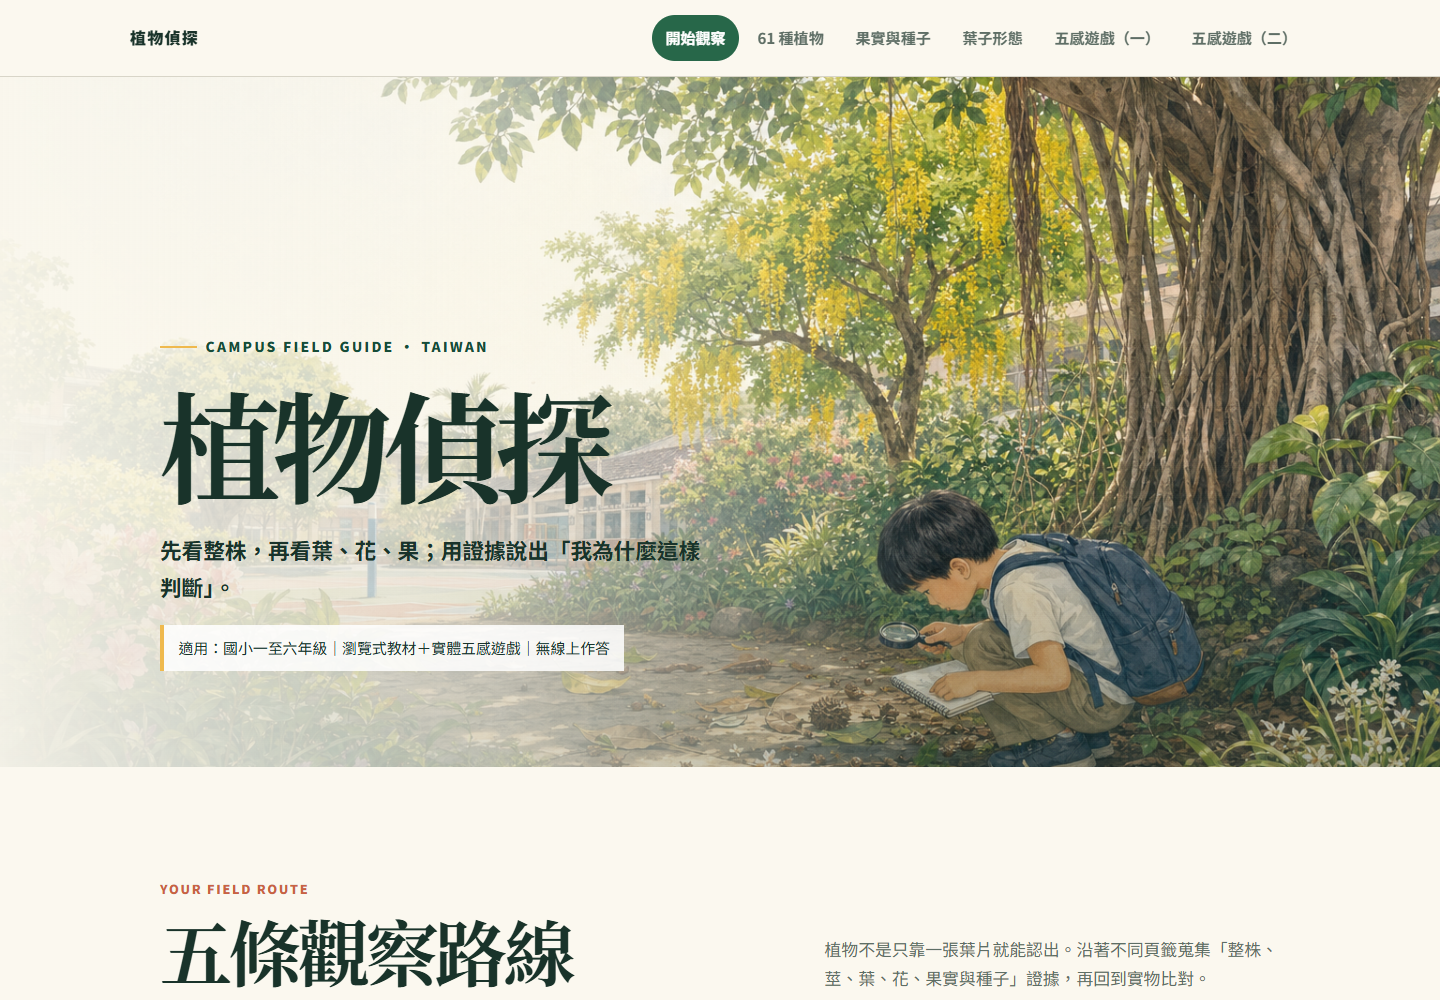
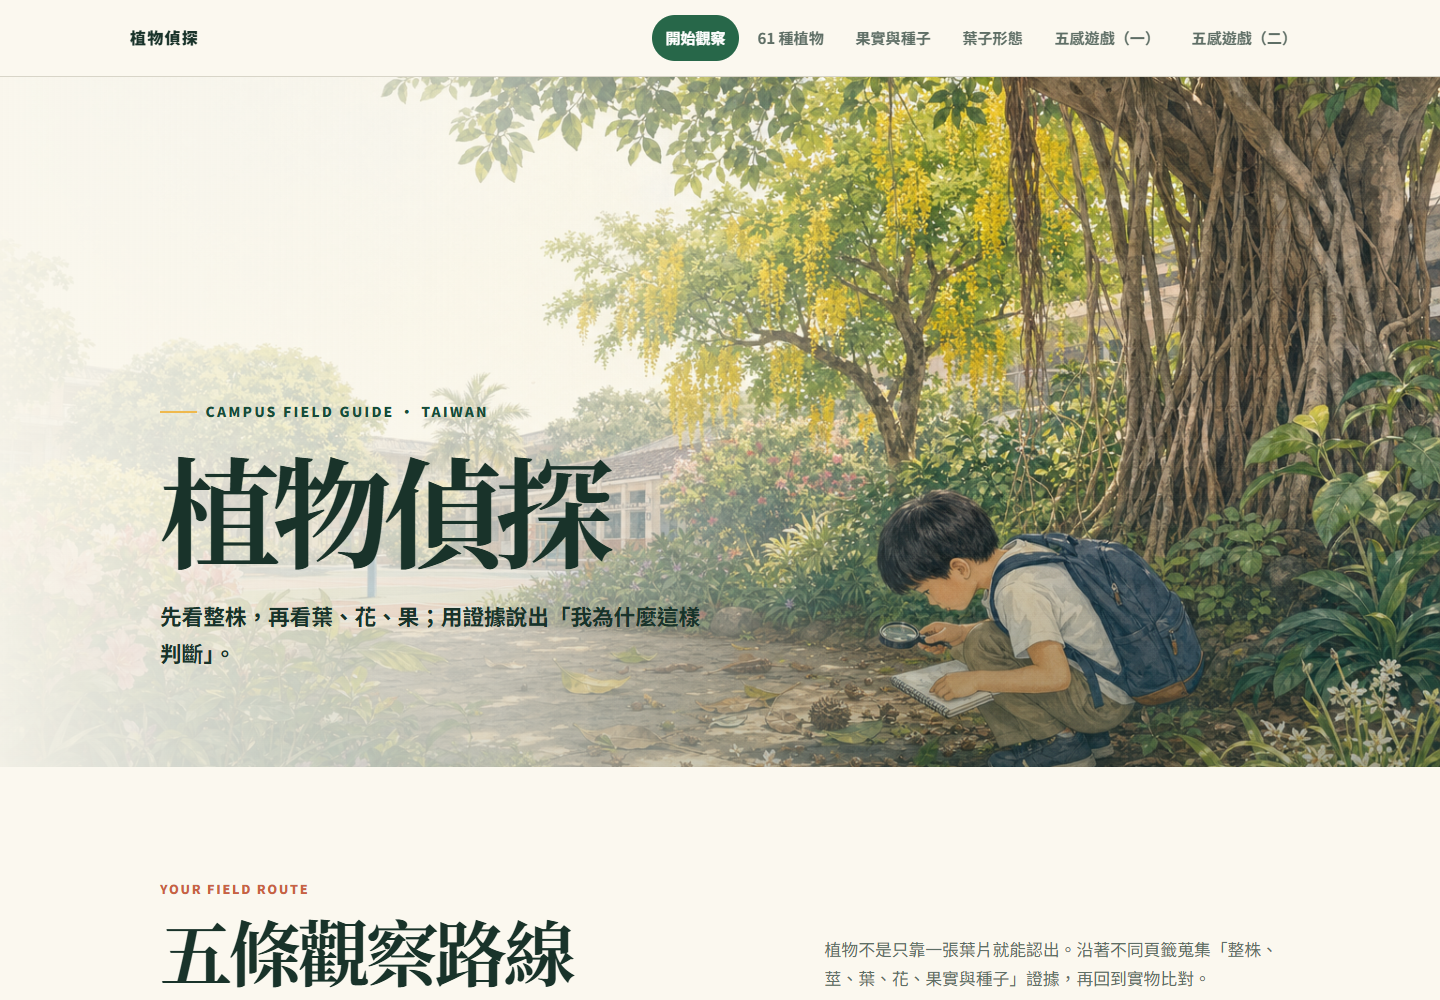
Remove homepage audience note

Changed region(s): [[0.0938, 0.341, 0.5, 0.682]]

diff --git a/index.html b/index.html
@@ -31,7 +31,6 @@
         <p class="eyebrow">Campus field guide · Taiwan</p>
         <h1 id="hero-title">植物偵探</h1>
         <p class="hero-sub">先看整株，再看葉、花、果；用證據說出「我為什麼這樣判斷」。</p>
-        <span class="hero-note">適用：國小一至六年級｜瀏覽式教材＋實體五感遊戲｜無線上作答</span>
       </div>
     </section>
 

diff --git a/styles.css b/styles.css
@@ -46,7 +46,6 @@ main { min-height: 70vh; }
 h1, h2, h3 { font-family: "Noto Serif TC", "Songti TC", "PMingLiU", serif; line-height: 1.2; }
 h1 { margin: 0; font-size: clamp(3.4rem, 9vw, 7.5rem); letter-spacing: -.07em; }
 .hero-sub { max-width: 34rem; font-size: clamp(1.05rem, 2vw, 1.35rem); font-weight: 650; margin: 1.1rem 0 0; }
-.hero-note { display: inline-block; margin-top: 1.2rem; padding: .65rem .9rem; background: rgba(255,255,255,.86); border-left: 4px solid var(--sun); font-size: .93rem; }
 .section { padding: clamp(4rem, 8vw, 7rem) 0; }
 .section + .section { border-top: 1px solid var(--line); }
 .section-tint { background: #eef2e6; }

diff --git a/CHANGELOG.md b/CHANGELOG.md
@@ -1,5 +1,9 @@
 # 更新紀錄
 
+## 1.2.3 — 2026-07-19
+
+- 移除首頁封面上的適用年級、教材型態與作答方式資訊條。
+
 ## 1.2.2 — 2026-07-19
 
 - 移除全站導覽列左側的圓形「葉」品牌圖示，保留「植物偵探」文字首頁連結。

diff --git a/docs/test-report.md b/docs/test-report.md
@@ -35,6 +35,7 @@
 - 新增 6 張果實／種子圖目視確認分類欄位、剖面、種子構造與散播動作清楚；新增 8 張遊戲圖確認不採摘、手搧聞香、密封聲音罐、教師分裝可食香草等安全動作。
 - 新增羽狀複葉四欄圖目視確認一回奇數／偶數羽狀、二回與三回的葉軸分枝層級，以及整片複葉基部的腋芽位置。
 - 全站 6 頁導覽列已移除圓形「葉」圖示；桌機與手機截圖確認只保留「植物偵探」文字首頁連結，導覽間距正常。
+- 首頁封面已移除適用年級、教材型態與作答方式資訊條；桌機與手機截圖確認主標、副標及封面留白正常。
 - 圖版文字全部放在 HTML，不把生成圖內文字當作教材答案。
 
 證據截圖位於 `docs/screenshots/`，每個頁面各保存 desktop、tablet、mobile 首屏，另保存植物頁與葉子形態頁尾端三種 viewport，共 24 張。
@@ -53,7 +54,7 @@
 
 ## GitHub Pages 公開環境
 
-- 版本 1.2.2 推送至 `main` 後，GitHub Pages 狀態為 `built`。
+- 版本 1.2.3 推送至 `main` 後，GitHub Pages 狀態為 `built`。
 - 公開網址：`https://prayer168.github.io/Plant-Detective/`；首頁、植物頁、CSS 與新增的 `plants-13-peacock-tree.png` 均回傳 HTTP 200。
 - 本次另抽查 `seeds.html`、`game-one.html`、`game-two.html`、`fruit-origin-types.png` 與 `game-08-memory.png`，均回傳 HTTP 200。
 - 新增的 `leaves.html` 羽狀複葉專區與 `leaf-pinnate-compound.png` 均回傳 HTTP 200；公開文字包含一回、二回、三回及多回羽狀複葉。